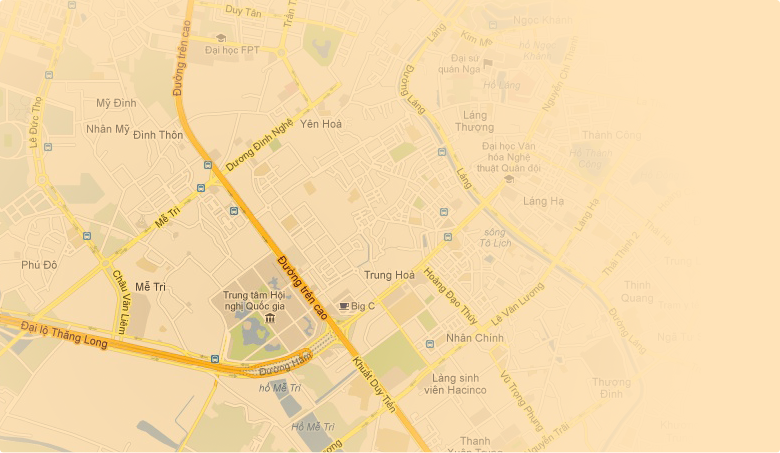
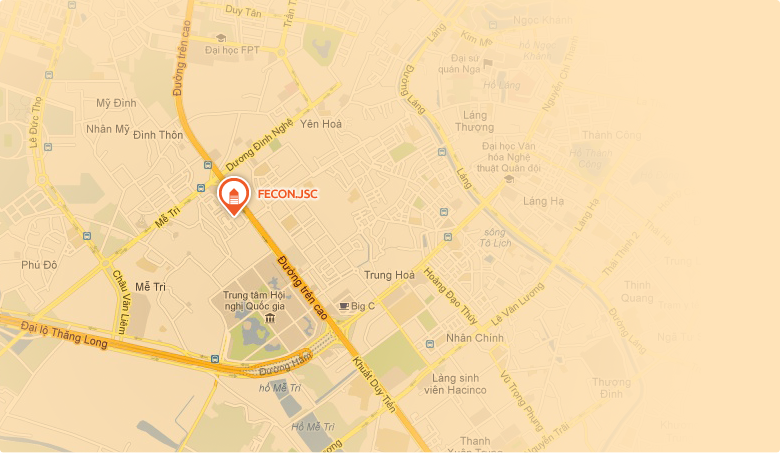
Add Organiser page
minor update for other pages

Changed region(s): [[0.2769, 0.3709, 0.4308, 0.4945]]

diff --git a/organisers.html b/organisers.html
@@ -1,0 +1,203 @@
+<!DOCTYPE html>
+<html>
+<head>
+    <meta http-equiv="Content-Type" content="text/html; charset=utf-8" />
+    <title>ORGANISERS | ABOUT | GEOTEC Hanoi 2013 - www.geotechn2013.vn</title>
+    <link rel="shortcut icon" href="favicon.ico" >
+    <!--[if IE]>
+        <script type="text/javascript" src="js/html5.js"></script>
+    <![endif]-->
+    
+    <link rel='stylesheet' type='text/css' href='http://fonts.googleapis.com/css?family=Ubuntu:400,700'  />
+    <link rel="stylesheet" type="text/css" href="css/reset.css" />
+    <link rel="stylesheet" type="text/css" href="css/style.css" />
+</head>
+<body class="fe">
+	<div id="fullpage_image_holder"><img src="userfiles/bg_full.png" class="main_image" /></div>
+    
+    <div id="site_wrapper">
+	    <nav id="top_navigator" class="clearfix">
+        	<a href="#" class="online_register font_ubuntu">Registration online</a> 
+            <span class="online_register_preload"></span>
+            <div id="online_register_wrapper" class="font_ubuntu">
+            	<div class="deco"><span></span></div>
+
+                <a href="#" class="submit_paper"><span></span>Paper Submission</a>
+                <div class="seperator"><span></span></div>
+                <a href="#" class="register"><span></span>Register to Attend</a>
+            </div>
+
+
+            <ul class="font_ubuntu">
+            	<li>
+                	<a href="#" class="active">About</a> <span></span>
+                    <ul>
+                    	<li><a href="about.html">GEOTEC HANOI</a></li>
+                        <li><a href="#" class="active">Organisers</a></li>
+                        <li><a href="attendees_support.html">Attendees Support</a></li>
+                    </ul>
+                </li>
+                <li><a href="#">Press</a> <span></span></li>
+                <li><a href="gallery.html">Gallery</a> <span></span></li>
+                <li>
+                	<a href="excursion.html">Excursion</a> <span></span>
+                    <ul>
+                    	<li><a href="excursion.html">Hanoi Capital</a></li>
+                        <li><a href="#">Conference Excursions</a></li>
+                    </ul>
+                </li>
+                <li><a href="#">Sponsorship & Exhibition</a> <span></span>
+                	<ul>
+                    	<li><a href="#">Sponsorship</a></li>
+                        <li><a href="#">Exhibition</a></li>
+                    </ul>
+                </li>
+                <li><a href="contact.html">Contact</a> <span></span></li>
+            </ul>
+        </nav>
+        
+        <div class="inside_content clearfix">
+        	<div class="article_content">
+            	<h2 class="article_title">Organisers</h2>
+            	<p>Lorem ipsum dolor sit amet, consectetuer adipiscing elit. Phasellus hendrerit. Pellentesque aliquet nibh nec urna. In nisi neque, aliquet vel, dapibus id, mattis vel, nisi. Sed pretium, ligula sollicitudin laoreet viverra, tortor libero sodales leo, eget blandit nunc tortor eu nibh. Nullam mollis. Ut justo. Suspendisse potenti.</p>
+
+				<div class="hotel_category orgainser_category">
+                    <h2 class="group_title">Patronizer</h2>
+                    
+                    <div class="items">
+						<div class="organiser_content_wrapper">
+                            <p><strong class="upper">JICA</strong><br>Sed egestas, ante et vulputate volutpat, eros semper est, vitae luctus metus libero eu augue. Morbi purus libero, faucibus adipiscing, commodo quis, gravida id, est. Sed lectus. Praesent elementum hendrerit tortor. Sed semper lorem at felis. Vestibulum volutpat, lacus a ultrices sagittis, mi neque euismod dui, eu pulvinar nunc sapien ornare nisl. Phasellus pede arcu, dapibus eu, fermentum et, dapibus sed, urna... Sed egestas, ante et vulputate volutpat, eros semper est <a href="#" class="expand"><img src="css/imgs/expand.gif" alt="Click to view more"></a></p>
+                            <p>Sed egestas, ante et vulputate volutpat, eros semper est, vitae luctus metus libero eu augue. Morbi purus libero, faucibus adipiscing, commodo quis, gravida id, est. Sed lectus. Praesent elementum hendrerit tortor. Sed semper lorem at felis. Vestibulum volutpat, lacus a ultrices sagittis, mi neque euismod dui, eu pulvinar nunc sapien ornare nisl. Phasellus pede arcu, dapibus eu, fermentum et, dapibus sed, urna... Sed egestas, ante et vulputate volutpat, eros semper est</p>
+                    	</div>
+                        <a href="#" target="_blank"><img class="hotel_logo" src="userfiles/organisers/jica.jpg" width="110" height="110" alt="Sheraton logo" /></a>
+                    </div>
+                </div>
+                <div class="hotel_category orgainser_category">
+                    <h2 class="group_title">Organisers</h2>
+                    
+                    <div class="items">
+						<div class="organiser_content_wrapper">
+                            <p><strong class="upper">FECON, VIETNAM</strong><br>Sed egestas, ante et vulputate volutpat, eros semper est, vitae luctus metus libero eu augue. Morbi purus libero, faucibus adipiscing, commodo quis, gravida id, est. Sed lectus. Praesent elementum hendrerit tortor. Sed semper lorem at felis. Vestibulum volutpat, lacus a ultrices sagittis, mi neque euismod dui, eu pulvinar nunc sapien ornare nisl. Phasellus pede arcu, dapibus eu, fermentum et, dapibus sed, urna... Sed egestas, ante et vulputate volutpat, eros semper est<a href="#" class="expand"><img src="css/imgs/expand.gif" alt="Click to view more"></a></p>
+                            <p>Sed egestas, ante et vulputate volutpat, eros semper est, vitae luctus metus libero eu augue. Morbi purus libero, faucibus adipiscing, commodo quis, gravida id, est. Sed lectus. Praesent elementum hendrerit tortor. Sed semper lorem at felis. Vestibulum volutpat, lacus a ultrices sagittis, mi neque euismod dui, eu pulvinar nunc sapien ornare nisl. Phasellus pede arcu, dapibus eu, fermentum et, dapibus sed, urna... Sed egestas, ante et vulputate volutpat, eros semper est</p>
+                    	</div>
+                        <a href="#" target="_blank"><img class="hotel_logo" src="userfiles/organisers/fecon.jpg" width="110" height="110" alt="Sheraton logo" /></a>
+                    </div>
+                    
+                    <div class="items">
+						<div class="organiser_content_wrapper">
+                            <p><strong class="upper">VSSMGE, VIETNAM</strong><br>Sed egestas, ante et vulputate volutpat, eros semper est, vitae luctus metus libero eu augue. Morbi purus libero, faucibus adipiscing, commodo quis, gravida id, est. Sed lectus. Praesent elementum hendrerit tortor. Sed semper lorem at felis. Vestibulum volutpat, lacus a ultrices sagittis, mi neque euismod dui, eu pulvinar nunc sapien ornare nisl. Phasellus pede arcu, dapibus eu, fermentum et, dapibus sed, urna... Sed egestas, ante et vulputate volutpat, eros semper est<a href="#" class="expand"><img src="css/imgs/expand.gif" alt="Click to view more"></a></p>
+                            <p>Sed egestas, ante et vulputate volutpat, eros semper est, vitae luctus metus libero eu augue. Morbi purus libero, faucibus adipiscing, commodo quis, gravida id, est. Sed lectus. Praesent elementum hendrerit tortor. Sed semper lorem at felis. Vestibulum volutpat, lacus a ultrices sagittis, mi neque euismod dui, eu pulvinar nunc sapien ornare nisl. Phasellus pede arcu, dapibus eu, fermentum et, dapibus sed, urna... Sed egestas, ante et vulputate volutpat, eros semper est</p>
+                    	</div>
+                        <a href="#" target="_blank"><img class="hotel_logo" src="userfiles/organisers/vssmge.jpg" width="110" height="110" alt="Sheraton logo" /></a>
+                    </div>
+                    
+                    <div class="items">
+						<div class="organiser_content_wrapper">
+                            <p><strong class="upper">ATI - Asian Institude of technology, THAILAND</strong><br>Sed egestas, ante et vulputate volutpat, eros semper est, vitae luctus metus libero eu augue. Morbi purus libero, faucibus adipiscing, commodo quis, gravida id, est. Sed lectus. Praesent elementum hendrerit tortor. Sed semper lorem at felis. Vestibulum volutpat, lacus a ultrices sagittis, mi neque euismod dui, eu pulvinar nunc sapien ornare nisl. Phasellus pede arcu, dapibus eu, fermentum et, dapibus sed, urna... Sed egestas, ante et vulputate volutpat, eros semper est<a href="#" class="expand"><img src="css/imgs/expand.gif" alt="Click to view more"></a></p>
+                            <p>Sed egestas, ante et vulputate volutpat, eros semper est, vitae luctus metus libero eu augue. Morbi purus libero, faucibus adipiscing, commodo quis, gravida id, est. Sed lectus. Praesent elementum hendrerit tortor. Sed semper lorem at felis. Vestibulum volutpat, lacus a ultrices sagittis, mi neque euismod dui, eu pulvinar nunc sapien ornare nisl. Phasellus pede arcu, dapibus eu, fermentum et, dapibus sed, urna... Sed egestas, ante et vulputate volutpat, eros semper est</p>
+                    	</div>
+                        <a href="#" target="_blank"><img class="hotel_logo" src="userfiles/organisers/iot.jpg" width="110" height="110" alt="Sheraton logo" /></a>
+                    </div>
+                </div>
+                
+                
+                <div class="hotel_category orgainser_category">
+                    <h2 class="group_title">Supporting organizatERS</h2>
+                    
+                    <div class="items">
+						<div class="organiser_content_wrapper">
+                            <p><strong class="upper">National University of Civil Engineering, VIetnam</strong><br>Sed egestas, ante et vulputate volutpat, eros semper est, vitae luctus metus libero eu augue. Morbi purus libero, faucibus adipiscing, commodo quis, gravida id, est. Sed lectus. Praesent elementum hendrerit tortor. Sed semper lorem at felis. Vestibulum volutpat, lacus a ultrices sagittis, mi neque euismod dui, eu pulvinar nunc sapien ornare nisl. Phasellus pede arcu, dapibus eu, fermentum et, dapibus sed, urna... Sed egestas, ante et vulputate volutpat, eros semper est<a href="#" class="expand"><img src="css/imgs/expand.gif" alt="Click to view more"></a></p>
+                            <p>Sed egestas, ante et vulputate volutpat, eros semper est, vitae luctus metus libero eu augue. Morbi purus libero, faucibus adipiscing, commodo quis, gravida id, est. Sed lectus. Praesent elementum hendrerit tortor. Sed semper lorem at felis. Vestibulum volutpat, lacus a ultrices sagittis, mi neque euismod dui, eu pulvinar nunc sapien ornare nisl. Phasellus pede arcu, dapibus eu, fermentum et, dapibus sed, urna... Sed egestas, ante et vulputate volutpat, eros semper est</p>
+                    	</div>
+                        <a href="#" target="_blank"><img class="hotel_logo" src="userfiles/organisers/dhxd.jpg" width="110" height="110" alt="Sheraton logo" /></a>
+                    </div>
+                    
+                    <div class="items">
+						<div class="organiser_content_wrapper">
+                            <p><strong class="upper">Water Resource University, Vietnam</strong><br>Sed egestas, ante et vulputate volutpat, eros semper est, vitae luctus metus libero eu augue. Morbi purus libero, faucibus adipiscing, commodo quis, gravida id, est. Sed lectus. Praesent elementum hendrerit tortor. Sed semper lorem at felis. Vestibulum volutpat, lacus a ultrices sagittis, mi neque euismod dui, eu pulvinar nunc sapien ornare nisl. Phasellus pede arcu, dapibus eu, fermentum et, dapibus sed, urna... Sed egestas, ante et vulputate volutpat, eros semper est<a href="#" class="expand"><img src="css/imgs/expand.gif" alt="Click to view more"></a></p>
+                    	</div>
+                        <a href="#" target="_blank"><img class="hotel_logo" src="userfiles/organisers/dhtl.jpg" width="110" height="110" alt="Sheraton logo" /></a>
+                    </div>
+                    
+                    <div class="items">
+						<div class="organiser_content_wrapper">
+                            <p><strong class="upper">Vietnam Institute for Building Science & Technology</strong><br>Sed egestas, ante et vulputate volutpat, eros semper est, vitae luctus metus libero eu augue. Morbi purus libero, faucibus adipiscing, commodo quis, gravida id, est. Sed lectus. Praesent elementum hendrerit tortor. Sed semper lorem at felis. Vestibulum volutpat, lacus a ultrices sagittis, mi neque euismod dui, eu pulvinar nunc sapien ornare nisl. Phasellus pede arcu, dapibus eu, fermentum et, dapibus sed, urna... Sed egestas, ante et vulputate volutpat, eros semper es<a href="#" class="expand"><img src="css/imgs/expand.gif" alt="Click to view more"></a></p>
+                            <p>Sed egestas, ante et vulputate volutpat, eros semper est, vitae luctus metus libero eu augue. Morbi purus libero, faucibus adipiscing, commodo quis, gravida id, est. Sed lectus. Praesent elementum hendrerit tortor. Sed semper lorem at felis. Vestibulum volutpat, lacus a ultrices sagittis, mi neque euismod dui, eu pulvinar nunc sapien ornare nisl. Phasellus pede arcu, dapibus eu, fermentum et, dapibus sed, urna... Sed egestas, ante et vulputate volutpat, eros semper est</p>
+                    	</div>
+                        <a href="#" target="_blank"><img class="hotel_logo" src="userfiles/organisers/vkxd.jpg" width="110" height="110" alt="Sheraton logo" /></a>
+                    </div>
+                    
+                    <div class="items">
+						<div class="organiser_content_wrapper">
+                            <p><strong class="upper">Vietnam Society for Engineering Geology & Environment</strong><br>Sed egestas, ante et vulputate volutpat, eros semper est, vitae luctus metus libero eu augue. Morbi purus libero, faucibus adipiscing, commodo quis, gravida id, est. Sed lectus. Praesent elementum hendrerit tortor. Sed semper lorem at felis. Vestibulum volutpat, lacus a ultrices sagittis, mi neque euismod dui, eu pulvinar nunc sapien ornare nisl. Phasellus pede arcu, dapibus eu, fermentum et, dapibus sed, urna... Sed egestas, ante et vulputate volutpat, eros semper est<a href="#" class="expand"><img src="css/imgs/expand.gif" alt="Click to view more"></a></p>
+                            <p>Sed egestas, ante et vulputate volutpat, eros semper est, vitae luctus metus libero eu augue. Morbi purus libero, faucibus adipiscing, commodo quis, gravida id, est. Sed lectus. Praesent elementum hendrerit tortor. Sed semper lorem at felis. Vestibulum volutpat, lacus a ultrices sagittis, mi neque euismod dui, eu pulvinar nunc sapien ornare nisl. Phasellus pede arcu, dapibus eu, fermentum et, dapibus sed, urna... Sed egestas, ante et vulputate volutpat, eros semper est</p>
+                    	</div>
+                        <a href="#" target="_blank"><img class="hotel_logo" src="userfiles/organisers/logo_1.jpg" width="110" height="110" alt="Sheraton logo" /></a>
+                    </div>
+                    
+                    <div class="items">
+						<div class="organiser_content_wrapper">
+                            <p><strong class="upper">C&E Consultant, Vietnam</strong><br>Sed egestas, ante et vulputate volutpat, eros semper est, vitae luctus metus libero eu augue. Morbi purus libero, faucibus adipiscing, commodo quis, gravida id, est. Sed lectus. Praesent elementum hendrerit tortor. Sed semper lorem at felis. Vestibulum volutpat, lacus a ultrices sagittis, mi neque euismod dui, eu pulvinar nunc sapien ornare nisl. Phasellus pede arcu, dapibus eu, fermentum et, dapibus sed, urna... Sed egestas, ante et vulputate volutpat, eros semper est<a href="#" class="expand"><img src="css/imgs/expand.gif" alt="Click to view more"></a></p>
+                            <p>Sed egestas, ante et vulputate volutpat, eros semper est, vitae luctus metus libero eu augue. Morbi purus libero, faucibus adipiscing, commodo quis, gravida id, est. Sed lectus. Praesent elementum hendrerit tortor. Sed semper lorem at felis. Vestibulum volutpat, lacus a ultrices sagittis, mi neque euismod dui, eu pulvinar nunc sapien ornare nisl. Phasellus pede arcu, dapibus eu, fermentum et, dapibus sed, urna... Sed egestas, ante et vulputate volutpat, eros semper est</p>
+                    	</div>
+                        <a href="#" target="_blank"><img class="hotel_logo" src="userfiles/organisers/vc_group.jpg" width="110" height="110" alt="Sheraton logo" /></a>
+                    </div>
+                    
+                    <div class="items">
+						<div class="organiser_content_wrapper">
+                            <p><strong class="upper">Vietnam Investment Consulting & Construction Designing JSC</strong><br>Sed egestas, ante et vulputate volutpat, eros semper est, vitae luctus metus libero eu augue. Morbi purus libero, faucibus adipiscing, commodo quis, gravida id, est. Sed lectus. Praesent elementum hendrerit tortor. Sed semper lorem at felis. Vestibulum volutpat, lacus a ultrices sagittis, mi neque euismod dui, eu pulvinar nunc sapien ornare nisl. Phasellus pede arcu, dapibus eu, fermentum et, dapibus sed, urna... Sed egestas, ante et vulputate volutpat, eros semper est<a href="#" class="expand"><img src="css/imgs/expand.gif" alt="Click to view more"></a></p>
+                            <p>Sed egestas, ante et vulputate volutpat, eros semper est, vitae luctus metus libero eu augue. Morbi purus libero, faucibus adipiscing, commodo quis, gravida id, est. Sed lectus. Praesent elementum hendrerit tortor. Sed semper lorem at felis. Vestibulum volutpat, lacus a ultrices sagittis, mi neque euismod dui, eu pulvinar nunc sapien ornare nisl. Phasellus pede arcu, dapibus eu, fermentum et, dapibus sed, urna... Sed egestas, ante et vulputate volutpat, eros semper est</p>
+                    	</div>
+                        <a href="#" target="_blank"><img class="hotel_logo" src="userfiles/organisers/vgi.jpg" width="110" height="110" alt="Sheraton logo" /></a>
+                    </div>
+                </div>
+                
+                    
+                
+                
+                
+                
+                <div class="clearfix share_online_wrapper">
+                    <a href="#" class="back_to_top"><span></span>Back to top</a>
+                </div>
+                
+            </div>
+            <nav class="left">
+            	<ul>
+                	<li><a href="about.html">GEOTEC HANOI</a></li>
+                    <li><a href="#" class="active">Organisers</a></li>
+                    <li><a href="#">Attendees Support</a>
+                </ul>
+            </nav>
+        </div>
+        
+        <section id="right_col">
+        	<a href="index.html" id="logo" class="hide_content">GEOTech 28-29/11/2013 - Hanoi - Vietnam</a>
+
+            <nav id="right_nav">
+            	<ul class="font_ubuntu">
+                    <li class="main_menu" data-index="0">
+                        <a href="index.html#1"><span></span>Main Menu</a>
+                    </li>
+                    <li class="news" data-index="1">
+                        <a href="index.html#2"><span></span>News</a>
+                    </li>
+                    <li class="imp_date" data-index="2">
+                        <a href="index.html#3"><span></span>Important dates</a>
+                    </li>
+                    <li class="venue" data-index="3" data-bg123="userfiles/bg_full_map.jpg">
+                        <a href="index.html#4"><span></span>Venue</a>
+                    </li>
+                </ul>
+            </nav>
+        </section>
+        
+        <section class="inside_footer"><span>FECON &copy; 2012 - Designed by </span><a href="http://duknguyen.com/" target="_blank">Duknguyen Team</a></section>
+    </div>
+    
+        
+    
+    <script src="js/jquery.js"></script>
+    <script src="js/utils.js"></script>
+</body>
+</html>

diff --git a/js/utils.js b/js/utils.js
@@ -10,12 +10,30 @@ $(document).ready(function(){
 	initHPSlide();
 	
 	initFancybox();
+	initExpandOrganiser();
 	
 	addOnLoadEvent(function(){
 		showRequestedPopup();
 		initBackToTop();
 	});
 });
+
+function initExpandOrganiser(){
+	$('.expand').click(function(e){
+		$('.organiser_content_wrapper').css('height', '150px');
+		$('.organiser_content_wrapper .expand').show();
+		
+		var _parent = $(this).parents().get(1);
+		$(_parent).css('height', 'auto');
+		$(this).hide();
+		
+		$('html, body').animate({
+			scrollTop: $(_parent).offset().top
+		}, 300);
+		
+		e.preventDefault();
+	});
+}
 
 function initFancybox(){
 	var fancy = $('.fancy');

diff --git a/css/style.css b/css/style.css
@@ -773,3 +773,21 @@
 	background-color:#ef5a28; color:#fff;
 }
 /* end of contact_content */
+
+.fe .article_content .group_title{
+	font:normal 18px/30px 'Ubuntu', sans-serif; text-transform:uppercase;
+	color:#707070;
+	margin:0 0 10px 0;
+}
+.fe .organiser_content_wrapper{
+	height:150px; overflow:hidden;
+}
+.fe .orgainser_category .items{
+	margin:10px 0 40px 0;
+}
+.fe .orgainser_category .items .hotel_logo{
+	top:8px;
+}
+.fe .expand{
+	margin:0 0 0 5px;
+}

diff --git a/excursion.html b/excursion.html
@@ -33,7 +33,7 @@
                 	<a href="about.html">About</a> <span></span>
                     <ul>
                     	<li><a href="about.html">GEOTEC HANOI</a></li>
-                        <li><a href="#">Organisers</a></li>
+                        <li><a href="organisers.html">Organisers</a></li>
                         <li><a href="attendees_support.html">Attendees Support</a></li>
                     </ul>
                 </li>

diff --git a/gallery.html b/gallery.html
@@ -34,7 +34,7 @@
                 	<a href="about.html">About</a> <span></span>
                     <ul>
                     	<li><a href="about.html">GEOTEC HANOI</a></li>
-                        <li><a href="#">Organisers</a></li>
+                        <li><a href="organisers.html">Organisers</a></li>
                         <li><a href="attendees_support.html">Attendees Support</a></li>
                     </ul>
                 </li>

diff --git a/about.html b/about.html
@@ -33,7 +33,7 @@
                 	<a href="#" class="active">About</a> <span></span>
                     <ul>
                     	<li><a href="#">GEOTEC HANOI</a></li>
-                        <li><a href="#">Organisers</a></li>
+                        <li><a href="organisers.html">Organisers</a></li>
                         <li><a href="attendees_support.html">Attendees Support</a></li>
                     </ul>
                 </li>

diff --git a/contact.html b/contact.html
@@ -36,9 +36,7 @@
                     <li>
                         <a href="about.html">GEOTEC HANOI</a>
                     </li>
-                    <li>
-                        <a href="#">Organisers</a>
-                    </li>
+                    <li><a href="organisers.html">Organisers</a></li>
                     <li><a href="attendees_support.html">Attendees Support</a></li>
                 </ul>
             </li>

diff --git a/index.html b/index.html
@@ -37,9 +37,7 @@
                     <li>
                         <a href="about.html">GEOTEC HANOI</a>
                     </li>
-                    <li>
-                        <a href="#">Organisers</a>
-                    </li>
+                    <li><a href="organisers.html">Organisers</a></li>
                     <li><a href="attendees_support.html">Attendees Support</a></li>
                 </ul>
             </li>

diff --git a/attendees_support.html b/attendees_support.html
@@ -33,7 +33,7 @@
                 	<a href="#" class="active">About</a> <span></span>
                     <ul>
                     	<li><a href="about.html">GEOTEC HANOI</a></li>
-                        <li><a href="#">Organisers</a></li>
+                        <li><a href="organisers.html">Organisers</a></li>
                         <li><a href="#">Attendees Support</a></li>
                     </ul>
                 </li>
